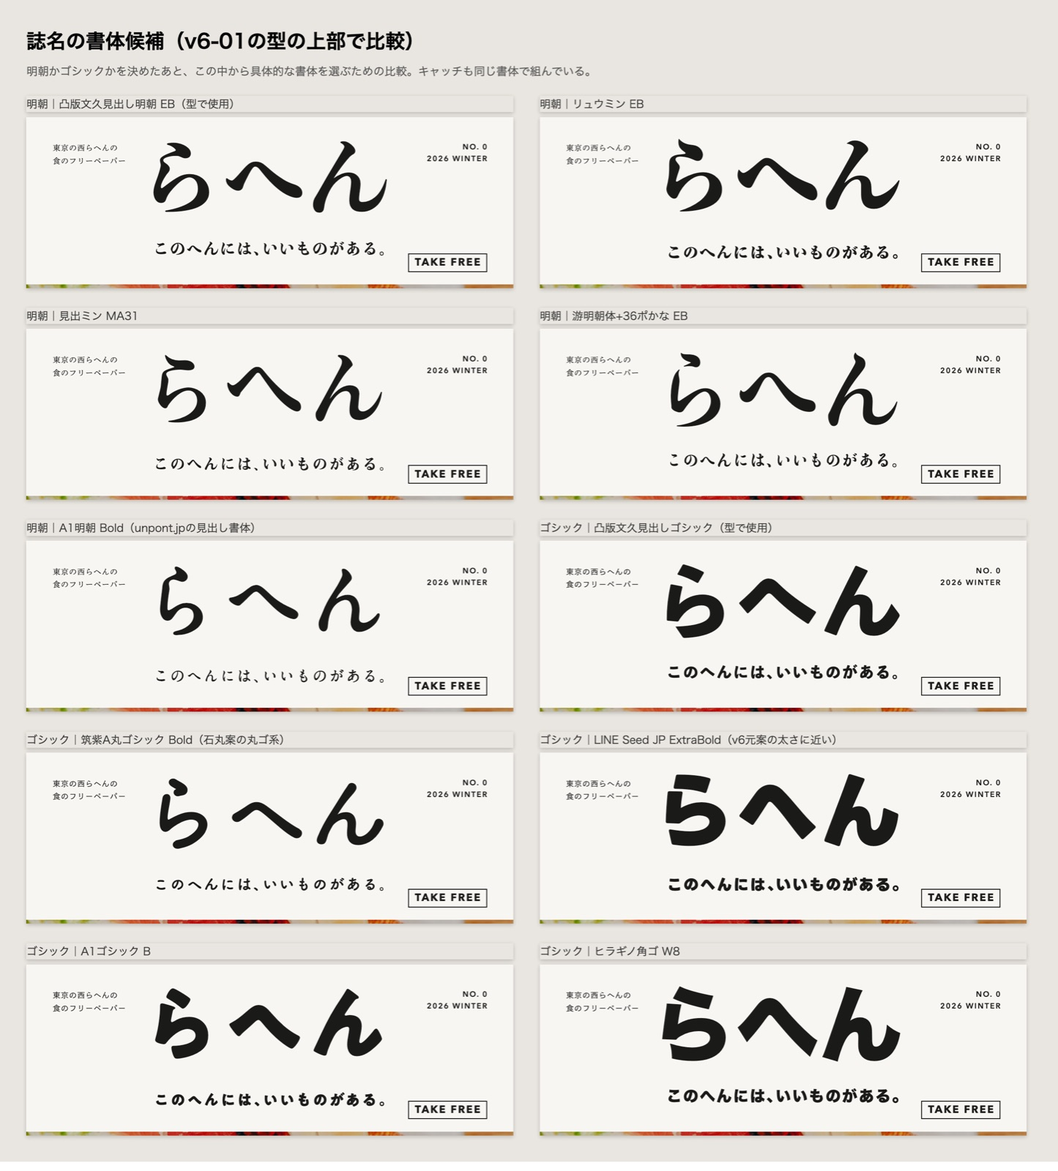
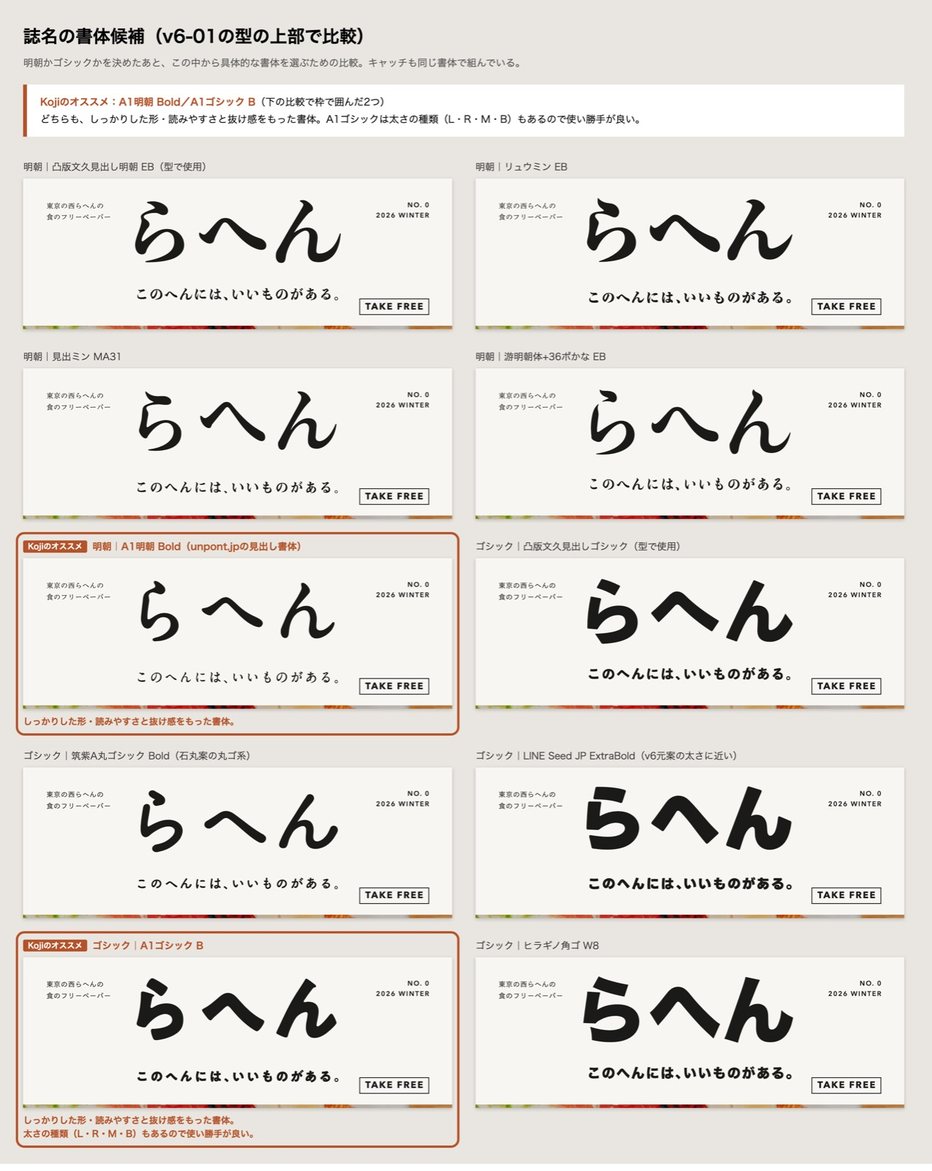
書体候補にKojiのオススメ（A1明朝 Bold／A1ゴシック B）を明示
4版の書体候補の画像で、オススメの2書体を枠と色で強調し、推薦理由を追記。
各版のページにも、書体候補の上にオススメ欄を追加。

Changed region(s): [[0.0, 0.0, 0.9804, 1.0], [0.8885, 0.6562, 0.9497, 0.6875], [0.337, 0.5312, 0.3676, 0.5625]]

diff --git a/cover-type/photo4/index.html b/cover-type/photo4/index.html
@@ -27,6 +27,6 @@ figure.base img{opacity:.92}figcaption{font-size:12px;color:var(--sub);margin-to
 <main><h2 class="sec">5つの型：元案／明朝体／ゴシック体</h2><section class="type"><h3>v1-01 白帯</h3><p class="note">上端20mmの白帯に誌名だけ。写真は帯の下すべて。キャッチは写真の上に縦組み（写真の右上が明るいので黒文字）。</p><div class="tri"><figure class="base"><img src="web/base_t1.jpg"><figcaption>元案（MTGで選んだもの）</figcaption></figure><figure><a href="t1_mincho.pdf"><img src="web/t1_mincho.jpg"></a><figcaption>明朝体（凸版文久見出し明朝 EB）　<a href="t1_mincho.pdf">PDF</a></figcaption></figure><figure><a href="t1_gothic.pdf"><img src="web/t1_gothic.jpg"></a><figcaption>ゴシック体（凸版文久見出しゴシック EB）　<a href="t1_gothic.pdf">PDF</a></figcaption></figure></div></section><section class="type"><h3>v1-02 四季色</h3><p class="note">上81.5mmが季節色の帯（号ごとに色替え）。誌名とキャッチは帯の中央。写真は下128.5mm。</p><div class="tri"><figure class="base"><img src="web/base_t2.jpg"><figcaption>元案（MTGで選んだもの）</figcaption></figure><figure><a href="t2_mincho.pdf"><img src="web/t2_mincho.jpg"></a><figcaption>明朝体（凸版文久見出し明朝 EB）　<a href="t2_mincho.pdf">PDF</a></figcaption></figure><figure><a href="t2_gothic.pdf"><img src="web/t2_gothic.jpg"></a><figcaption>ゴシック体（凸版文久見出しゴシック EB）　<a href="t2_gothic.pdf">PDF</a></figcaption></figure></div></section><section class="type"><h3>v1-07 らへん標本</h3><p class="note">白地。誌名とキャッチは右寄せ。写真は上50.7mmから白フチ5mmで配置。</p><div class="tri"><figure class="base"><img src="web/base_t3.jpg"><figcaption>元案（MTGで選んだもの）</figcaption></figure><figure><a href="t3_mincho.pdf"><img src="web/t3_mincho.jpg"></a><figcaption>明朝体（凸版文久見出し明朝 EB）　<a href="t3_mincho.pdf">PDF</a></figcaption></figure><figure><a href="t3_gothic.pdf"><img src="web/t3_gothic.jpg"></a><figcaption>ゴシック体（凸版文久見出しゴシック EB）　<a href="t3_gothic.pdf">PDF</a></figcaption></figure></div></section><section class="type"><h3>v6-01 朝の一皿</h3><p class="note">上50.8mmの生成り地に大きな誌名とキャッチ。写真は下159.2mm。TAKE FREEは帯の右下。</p><div class="tri"><figure class="base"><img src="web/base_t4.jpg"><figcaption>元案（MTGで選んだもの）</figcaption></figure><figure><a href="t4_mincho.pdf"><img src="web/t4_mincho.jpg"></a><figcaption>明朝体（凸版文久見出し明朝 EB）　<a href="t4_mincho.pdf">PDF</a></figcaption></figure><figure><a href="t4_gothic.pdf"><img src="web/t4_gothic.jpg"></a><figcaption>ゴシック体（凸版文久見出しゴシック EB）　<a href="t4_gothic.pdf">PDF</a></figcaption></figure></div></section><section class="type"><h3>v6-03 畑がある</h3><p class="note">上48mmの生成り地に誌名・キャッチ・英語タグライン。TAKE FREEは帯の左下。</p><div class="tri"><figure class="base"><img src="web/base_t5.jpg"><figcaption>元案（MTGで選んだもの）</figcaption></figure><figure><a href="t5_mincho.pdf"><img src="web/t5_mincho.jpg"></a><figcaption>明朝体（凸版文久見出し明朝 EB）　<a href="t5_mincho.pdf">PDF</a></figcaption></figure><figure><a href="t5_gothic.pdf"><img src="web/t5_gothic.jpg"></a><figcaption>ゴシック体（凸版文久見出しゴシック EB）　<a href="t5_gothic.pdf">PDF</a></figcaption></figure></div></section>
 <h2 class="sec">ラック想定（前のポケットで下が隠れた状態）</h2><div class="wide"><img src="web/rack.jpg"></div>
 <h2 class="sec">遠目想定（2.5m・3.7m）</h2><p class="lead">画面の表示倍率で見え方が変わるため、型どうしの相対比較用。実際の読みやすさはA5実寸の出力を離れて見て確かめる。</p><div class="wide"><img src="web/distance.jpg"></div>
-<h2 class="sec">誌名の書体候補（明朝かゴシックかを決めたあとに選ぶ）</h2><div class="wide"><img src="web/fonts.jpg"></div>
+<h2 class="sec">誌名の書体候補（明朝かゴシックかを決めたあとに選ぶ）</h2><div class="box" style="border-color:#B4532A;border-left:5px solid #B4532A"><h2 style="color:#B4532A">Kojiのオススメ：A1明朝 Bold／A1ゴシック B</h2><ul><li>どちらも、しっかりした形・読みやすさと抜け感をもった書体。</li><li>A1ゴシックは太さの種類（L・R・M・B）もあるので使い勝手が良い。</li><li>下の比較では、オススメの2つを枠で囲んでいる。</li></ul></div><div class="wide"><img src="web/fonts.jpg"></div>
 <h2 class="sec">型の寸法（A5・mm）</h2><div class="tw"><table><tr><th>型</th><th>上の帯</th><th>誌名</th><th>キャッチ</th><th>TAKE FREE</th><th>写真</th></tr><tr><td>v1-01 白帯</td><td>20mm</td><td>中央・12.5mm・字間0.32em</td><td>写真の右上に縦組み2行・5mm（写真の明るさで黒／白）</td><td>帯の左・ラベル</td><td>20〜210mm（全面）</td></tr><tr><td>v1-02 四季色</td><td>81.5mm（季節色）</td><td>中央・24mm</td><td>誌名の下・4.2mm</td><td>帯の左下・ラベル</td><td>81.5〜210mm（全面）</td></tr><tr><td>v1-07 らへん標本</td><td>なし（白地）</td><td>右寄せ・17.5mm</td><td>誌名の下に右寄せ・3.8mm</td><td>左・キャッチと同じ行・ラベル</td><td>50.7〜205mm（左右下5mmの白フチ）</td></tr><tr><td>v6-01 朝の一皿</td><td>50.8mm（生成り）</td><td>中央・25mm</td><td>誌名の下・4.6mm</td><td>帯の右下・ラベル</td><td>50.8〜210mm（全面）</td></tr><tr><td>v6-03 畑がある</td><td>48mm（生成り）</td><td>中央・25mm</td><td>誌名の下・4.4mm＋英語2.3mm</td><td>帯の左下・ラベル</td><td>48〜210mm（全面）</td></tr></table></div>
 <p class="lead" style="margin-top:14px">元データ：assets/edit/cover-type/（型のHTML・生成スクリプト）。書き出し：output/cover-type_写真4_ガレット横から/（PNG・PDF）。型のHTML：assets/edit/cover-type/variants/p4/。</p></main></body></html>

diff --git a/cover-type/photo2/index.html b/cover-type/photo2/index.html
@@ -27,6 +27,6 @@ figure.base img{opacity:.92}figcaption{font-size:12px;color:var(--sub);margin-to
 <main><h2 class="sec">5つの型：元案／明朝体／ゴシック体</h2><section class="type"><h3>v1-01 白帯</h3><p class="note">上端20mmの白帯に誌名だけ。写真は帯の下すべて。キャッチは写真の上に縦組み（写真の右上が明るいので黒文字）。</p><div class="tri"><figure class="base"><img src="web/base_t1.jpg"><figcaption>元案（MTGで選んだもの）</figcaption></figure><figure><a href="t1_mincho.pdf"><img src="web/t1_mincho.jpg"></a><figcaption>明朝体（凸版文久見出し明朝 EB）　<a href="t1_mincho.pdf">PDF</a></figcaption></figure><figure><a href="t1_gothic.pdf"><img src="web/t1_gothic.jpg"></a><figcaption>ゴシック体（凸版文久見出しゴシック EB）　<a href="t1_gothic.pdf">PDF</a></figcaption></figure></div></section><section class="type"><h3>v1-02 四季色</h3><p class="note">上81.5mmが季節色の帯（号ごとに色替え）。誌名とキャッチは帯の中央。写真は下128.5mm。</p><div class="tri"><figure class="base"><img src="web/base_t2.jpg"><figcaption>元案（MTGで選んだもの）</figcaption></figure><figure><a href="t2_mincho.pdf"><img src="web/t2_mincho.jpg"></a><figcaption>明朝体（凸版文久見出し明朝 EB）　<a href="t2_mincho.pdf">PDF</a></figcaption></figure><figure><a href="t2_gothic.pdf"><img src="web/t2_gothic.jpg"></a><figcaption>ゴシック体（凸版文久見出しゴシック EB）　<a href="t2_gothic.pdf">PDF</a></figcaption></figure></div></section><section class="type"><h3>v1-07 らへん標本</h3><p class="note">白地。誌名とキャッチは右寄せ。写真は上50.7mmから白フチ5mmで配置。</p><div class="tri"><figure class="base"><img src="web/base_t3.jpg"><figcaption>元案（MTGで選んだもの）</figcaption></figure><figure><a href="t3_mincho.pdf"><img src="web/t3_mincho.jpg"></a><figcaption>明朝体（凸版文久見出し明朝 EB）　<a href="t3_mincho.pdf">PDF</a></figcaption></figure><figure><a href="t3_gothic.pdf"><img src="web/t3_gothic.jpg"></a><figcaption>ゴシック体（凸版文久見出しゴシック EB）　<a href="t3_gothic.pdf">PDF</a></figcaption></figure></div></section><section class="type"><h3>v6-01 朝の一皿</h3><p class="note">上50.8mmの生成り地に大きな誌名とキャッチ。写真は下159.2mm。TAKE FREEは帯の右下。</p><div class="tri"><figure class="base"><img src="web/base_t4.jpg"><figcaption>元案（MTGで選んだもの）</figcaption></figure><figure><a href="t4_mincho.pdf"><img src="web/t4_mincho.jpg"></a><figcaption>明朝体（凸版文久見出し明朝 EB）　<a href="t4_mincho.pdf">PDF</a></figcaption></figure><figure><a href="t4_gothic.pdf"><img src="web/t4_gothic.jpg"></a><figcaption>ゴシック体（凸版文久見出しゴシック EB）　<a href="t4_gothic.pdf">PDF</a></figcaption></figure></div></section><section class="type"><h3>v6-03 畑がある</h3><p class="note">上48mmの生成り地に誌名・キャッチ・英語タグライン。TAKE FREEは帯の左下。</p><div class="tri"><figure class="base"><img src="web/base_t5.jpg"><figcaption>元案（MTGで選んだもの）</figcaption></figure><figure><a href="t5_mincho.pdf"><img src="web/t5_mincho.jpg"></a><figcaption>明朝体（凸版文久見出し明朝 EB）　<a href="t5_mincho.pdf">PDF</a></figcaption></figure><figure><a href="t5_gothic.pdf"><img src="web/t5_gothic.jpg"></a><figcaption>ゴシック体（凸版文久見出しゴシック EB）　<a href="t5_gothic.pdf">PDF</a></figcaption></figure></div></section>
 <h2 class="sec">ラック想定（前のポケットで下が隠れた状態）</h2><div class="wide"><img src="web/rack.jpg"></div>
 <h2 class="sec">遠目想定（2.5m・3.7m）</h2><p class="lead">画面の表示倍率で見え方が変わるため、型どうしの相対比較用。実際の読みやすさはA5実寸の出力を離れて見て確かめる。</p><div class="wide"><img src="web/distance.jpg"></div>
-<h2 class="sec">誌名の書体候補（明朝かゴシックかを決めたあとに選ぶ）</h2><div class="wide"><img src="web/fonts.jpg"></div>
+<h2 class="sec">誌名の書体候補（明朝かゴシックかを決めたあとに選ぶ）</h2><div class="box" style="border-color:#B4532A;border-left:5px solid #B4532A"><h2 style="color:#B4532A">Kojiのオススメ：A1明朝 Bold／A1ゴシック B</h2><ul><li>どちらも、しっかりした形・読みやすさと抜け感をもった書体。</li><li>A1ゴシックは太さの種類（L・R・M・B）もあるので使い勝手が良い。</li><li>下の比較では、オススメの2つを枠で囲んでいる。</li></ul></div><div class="wide"><img src="web/fonts.jpg"></div>
 <h2 class="sec">型の寸法（A5・mm）</h2><div class="tw"><table><tr><th>型</th><th>上の帯</th><th>誌名</th><th>キャッチ</th><th>TAKE FREE</th><th>写真</th></tr><tr><td>v1-01 白帯</td><td>20mm</td><td>中央・12.5mm・字間0.32em</td><td>写真の右上に縦組み2行・5mm（写真の明るさで黒／白）</td><td>帯の左・ラベル</td><td>20〜210mm（全面）</td></tr><tr><td>v1-02 四季色</td><td>81.5mm（季節色）</td><td>中央・24mm</td><td>誌名の下・4.2mm</td><td>帯の左下・ラベル</td><td>81.5〜210mm（全面）</td></tr><tr><td>v1-07 らへん標本</td><td>なし（白地）</td><td>右寄せ・17.5mm</td><td>誌名の下に右寄せ・3.8mm</td><td>左・キャッチと同じ行・ラベル</td><td>50.7〜205mm（左右下5mmの白フチ）</td></tr><tr><td>v6-01 朝の一皿</td><td>50.8mm（生成り）</td><td>中央・25mm</td><td>誌名の下・4.6mm</td><td>帯の右下・ラベル</td><td>50.8〜210mm（全面）</td></tr><tr><td>v6-03 畑がある</td><td>48mm（生成り）</td><td>中央・25mm</td><td>誌名の下・4.4mm＋英語2.3mm</td><td>帯の左下・ラベル</td><td>48〜210mm（全面）</td></tr></table></div>
 <p class="lead" style="margin-top:14px">元データ：assets/edit/cover-type/（型のHTML・生成スクリプト）。書き出し：output/cover-type_写真2_マフィン作業/（PNG・PDF）。型のHTML：assets/edit/cover-type/variants/p2/。</p></main></body></html>

diff --git a/cover-type/photo3/index.html b/cover-type/photo3/index.html
@@ -27,6 +27,6 @@ figure.base img{opacity:.92}figcaption{font-size:12px;color:var(--sub);margin-to
 <main><h2 class="sec">5つの型：元案／明朝体／ゴシック体</h2><section class="type"><h3>v1-01 白帯</h3><p class="note">上端20mmの白帯に誌名だけ。写真は帯の下すべて。キャッチは写真の上に縦組み（写真の右上が明るいので黒文字）。</p><div class="tri"><figure class="base"><img src="web/base_t1.jpg"><figcaption>元案（MTGで選んだもの）</figcaption></figure><figure><a href="t1_mincho.pdf"><img src="web/t1_mincho.jpg"></a><figcaption>明朝体（凸版文久見出し明朝 EB）　<a href="t1_mincho.pdf">PDF</a></figcaption></figure><figure><a href="t1_gothic.pdf"><img src="web/t1_gothic.jpg"></a><figcaption>ゴシック体（凸版文久見出しゴシック EB）　<a href="t1_gothic.pdf">PDF</a></figcaption></figure></div></section><section class="type"><h3>v1-02 四季色</h3><p class="note">上81.5mmが季節色の帯（号ごとに色替え）。誌名とキャッチは帯の中央。写真は下128.5mm。</p><div class="tri"><figure class="base"><img src="web/base_t2.jpg"><figcaption>元案（MTGで選んだもの）</figcaption></figure><figure><a href="t2_mincho.pdf"><img src="web/t2_mincho.jpg"></a><figcaption>明朝体（凸版文久見出し明朝 EB）　<a href="t2_mincho.pdf">PDF</a></figcaption></figure><figure><a href="t2_gothic.pdf"><img src="web/t2_gothic.jpg"></a><figcaption>ゴシック体（凸版文久見出しゴシック EB）　<a href="t2_gothic.pdf">PDF</a></figcaption></figure></div></section><section class="type"><h3>v1-07 らへん標本</h3><p class="note">白地。誌名とキャッチは右寄せ。写真は上50.7mmから白フチ5mmで配置。</p><div class="tri"><figure class="base"><img src="web/base_t3.jpg"><figcaption>元案（MTGで選んだもの）</figcaption></figure><figure><a href="t3_mincho.pdf"><img src="web/t3_mincho.jpg"></a><figcaption>明朝体（凸版文久見出し明朝 EB）　<a href="t3_mincho.pdf">PDF</a></figcaption></figure><figure><a href="t3_gothic.pdf"><img src="web/t3_gothic.jpg"></a><figcaption>ゴシック体（凸版文久見出しゴシック EB）　<a href="t3_gothic.pdf">PDF</a></figcaption></figure></div></section><section class="type"><h3>v6-01 朝の一皿</h3><p class="note">上50.8mmの生成り地に大きな誌名とキャッチ。写真は下159.2mm。TAKE FREEは帯の右下。</p><div class="tri"><figure class="base"><img src="web/base_t4.jpg"><figcaption>元案（MTGで選んだもの）</figcaption></figure><figure><a href="t4_mincho.pdf"><img src="web/t4_mincho.jpg"></a><figcaption>明朝体（凸版文久見出し明朝 EB）　<a href="t4_mincho.pdf">PDF</a></figcaption></figure><figure><a href="t4_gothic.pdf"><img src="web/t4_gothic.jpg"></a><figcaption>ゴシック体（凸版文久見出しゴシック EB）　<a href="t4_gothic.pdf">PDF</a></figcaption></figure></div></section><section class="type"><h3>v6-03 畑がある</h3><p class="note">上48mmの生成り地に誌名・キャッチ・英語タグライン。TAKE FREEは帯の左下。</p><div class="tri"><figure class="base"><img src="web/base_t5.jpg"><figcaption>元案（MTGで選んだもの）</figcaption></figure><figure><a href="t5_mincho.pdf"><img src="web/t5_mincho.jpg"></a><figcaption>明朝体（凸版文久見出し明朝 EB）　<a href="t5_mincho.pdf">PDF</a></figcaption></figure><figure><a href="t5_gothic.pdf"><img src="web/t5_gothic.jpg"></a><figcaption>ゴシック体（凸版文久見出しゴシック EB）　<a href="t5_gothic.pdf">PDF</a></figcaption></figure></div></section>
 <h2 class="sec">ラック想定（前のポケットで下が隠れた状態）</h2><div class="wide"><img src="web/rack.jpg"></div>
 <h2 class="sec">遠目想定（2.5m・3.7m）</h2><p class="lead">画面の表示倍率で見え方が変わるため、型どうしの相対比較用。実際の読みやすさはA5実寸の出力を離れて見て確かめる。</p><div class="wide"><img src="web/distance.jpg"></div>
-<h2 class="sec">誌名の書体候補（明朝かゴシックかを決めたあとに選ぶ）</h2><div class="wide"><img src="web/fonts.jpg"></div>
+<h2 class="sec">誌名の書体候補（明朝かゴシックかを決めたあとに選ぶ）</h2><div class="box" style="border-color:#B4532A;border-left:5px solid #B4532A"><h2 style="color:#B4532A">Kojiのオススメ：A1明朝 Bold／A1ゴシック B</h2><ul><li>どちらも、しっかりした形・読みやすさと抜け感をもった書体。</li><li>A1ゴシックは太さの種類（L・R・M・B）もあるので使い勝手が良い。</li><li>下の比較では、オススメの2つを枠で囲んでいる。</li></ul></div><div class="wide"><img src="web/fonts.jpg"></div>
 <h2 class="sec">型の寸法（A5・mm）</h2><div class="tw"><table><tr><th>型</th><th>上の帯</th><th>誌名</th><th>キャッチ</th><th>TAKE FREE</th><th>写真</th></tr><tr><td>v1-01 白帯</td><td>20mm</td><td>中央・12.5mm・字間0.32em</td><td>写真の右上に縦組み2行・5mm（写真の明るさで黒／白）</td><td>帯の左・ラベル</td><td>20〜210mm（全面）</td></tr><tr><td>v1-02 四季色</td><td>81.5mm（季節色）</td><td>中央・24mm</td><td>誌名の下・4.2mm</td><td>帯の左下・ラベル</td><td>81.5〜210mm（全面）</td></tr><tr><td>v1-07 らへん標本</td><td>なし（白地）</td><td>右寄せ・17.5mm</td><td>誌名の下に右寄せ・3.8mm</td><td>左・キャッチと同じ行・ラベル</td><td>50.7〜205mm（左右下5mmの白フチ）</td></tr><tr><td>v6-01 朝の一皿</td><td>50.8mm（生成り）</td><td>中央・25mm</td><td>誌名の下・4.6mm</td><td>帯の右下・ラベル</td><td>50.8〜210mm（全面）</td></tr><tr><td>v6-03 畑がある</td><td>48mm（生成り）</td><td>中央・25mm</td><td>誌名の下・4.4mm＋英語2.3mm</td><td>帯の左下・ラベル</td><td>48〜210mm（全面）</td></tr></table></div>
 <p class="lead" style="margin-top:14px">元データ：assets/edit/cover-type/（型のHTML・生成スクリプト）。書き出し：output/cover-type_写真3_クレープ/（PNG・PDF）。型のHTML：assets/edit/cover-type/variants/p3/。</p></main></body></html>

diff --git a/cover-type/photo1/index.html b/cover-type/photo1/index.html
@@ -33,6 +33,6 @@ figure.base img{opacity:.92}figcaption{font-size:12px;color:var(--sub);margin-to
 <main><h2 class="sec">5つの型：元案／明朝体／ゴシック体</h2><section class="type"><h3>v1-01 白帯</h3><p class="note">上端20mmの白帯に誌名だけ。写真は帯の下すべて。キャッチは写真の上に縦組み（今回の写真は右上が明るいので黒文字。暗い写真なら白抜き）。</p><div class="tri"><figure class="base"><img src="web/base_t1.jpg"><figcaption>元案（MTGで選んだもの）</figcaption></figure><figure><a href="t1_mincho.pdf"><img src="web/t1_mincho.jpg"></a><figcaption>明朝体（凸版文久見出し明朝 EB）　<a href="t1_mincho.pdf">PDF</a></figcaption></figure><figure><a href="t1_gothic.pdf"><img src="web/t1_gothic.jpg"></a><figcaption>ゴシック体（凸版文久見出しゴシック EB）　<a href="t1_gothic.pdf">PDF</a></figcaption></figure></div></section><section class="type"><h3>v1-02 四季色</h3><p class="note">上81.5mmが季節色の帯（号ごとに色替え）。誌名とキャッチは帯の中央。写真は下128.5mm。</p><div class="tri"><figure class="base"><img src="web/base_t2.jpg"><figcaption>元案（MTGで選んだもの）</figcaption></figure><figure><a href="t2_mincho.pdf"><img src="web/t2_mincho.jpg"></a><figcaption>明朝体（凸版文久見出し明朝 EB）　<a href="t2_mincho.pdf">PDF</a></figcaption></figure><figure><a href="t2_gothic.pdf"><img src="web/t2_gothic.jpg"></a><figcaption>ゴシック体（凸版文久見出しゴシック EB）　<a href="t2_gothic.pdf">PDF</a></figcaption></figure></div></section><section class="type"><h3>v1-07 らへん標本</h3><p class="note">白地。誌名とキャッチは右寄せ。写真は上50.7mmから白フチ5mmで配置。</p><div class="tri"><figure class="base"><img src="web/base_t3.jpg"><figcaption>元案（MTGで選んだもの）</figcaption></figure><figure><a href="t3_mincho.pdf"><img src="web/t3_mincho.jpg"></a><figcaption>明朝体（凸版文久見出し明朝 EB）　<a href="t3_mincho.pdf">PDF</a></figcaption></figure><figure><a href="t3_gothic.pdf"><img src="web/t3_gothic.jpg"></a><figcaption>ゴシック体（凸版文久見出しゴシック EB）　<a href="t3_gothic.pdf">PDF</a></figcaption></figure></div></section><section class="type"><h3>v6-01 朝の一皿</h3><p class="note">上50.8mmの生成り地に大きな誌名とキャッチ。写真は下159.2mm。TAKE FREEは帯の右下。</p><div class="tri"><figure class="base"><img src="web/base_t4.jpg"><figcaption>元案（MTGで選んだもの）</figcaption></figure><figure><a href="t4_mincho.pdf"><img src="web/t4_mincho.jpg"></a><figcaption>明朝体（凸版文久見出し明朝 EB）　<a href="t4_mincho.pdf">PDF</a></figcaption></figure><figure><a href="t4_gothic.pdf"><img src="web/t4_gothic.jpg"></a><figcaption>ゴシック体（凸版文久見出しゴシック EB）　<a href="t4_gothic.pdf">PDF</a></figcaption></figure></div></section><section class="type"><h3>v6-03 畑がある</h3><p class="note">上48mmの生成り地に誌名・キャッチ・英語タグライン。TAKE FREEは帯の左下。</p><div class="tri"><figure class="base"><img src="web/base_t5.jpg"><figcaption>元案（MTGで選んだもの）</figcaption></figure><figure><a href="t5_mincho.pdf"><img src="web/t5_mincho.jpg"></a><figcaption>明朝体（凸版文久見出し明朝 EB）　<a href="t5_mincho.pdf">PDF</a></figcaption></figure><figure><a href="t5_gothic.pdf"><img src="web/t5_gothic.jpg"></a><figcaption>ゴシック体（凸版文久見出しゴシック EB）　<a href="t5_gothic.pdf">PDF</a></figcaption></figure></div></section>
 <h2 class="sec">ラック想定（前のポケットで下が隠れた状態）</h2><div class="wide"><img src="web/rack.jpg"></div>
 <h2 class="sec">遠目想定（2.5m・3.7m）</h2><p class="lead">画面の表示倍率で見え方が変わるため、型どうしの相対比較用。実際の読みやすさはA5実寸の出力を離れて見て確かめる。</p><div class="wide"><img src="web/distance.jpg"></div>
-<h2 class="sec">誌名の書体候補（明朝かゴシックかを決めたあとに選ぶ）</h2><div class="wide"><img src="web/fonts.jpg"></div>
+<h2 class="sec">誌名の書体候補（明朝かゴシックかを決めたあとに選ぶ）</h2><div class="box" style="border-color:#B4532A;border-left:5px solid #B4532A"><h2 style="color:#B4532A">Kojiのオススメ：A1明朝 Bold／A1ゴシック B</h2><ul><li>どちらも、しっかりした形・読みやすさと抜け感をもった書体。</li><li>A1ゴシックは太さの種類（L・R・M・B）もあるので使い勝手が良い。</li><li>下の比較では、オススメの2つを枠で囲んでいる。</li></ul></div><div class="wide"><img src="web/fonts.jpg"></div>
 <h2 class="sec">型の寸法（A5・mm）</h2><div class="tw"><table><tr><th>型</th><th>上の帯</th><th>誌名</th><th>キャッチ</th><th>TAKE FREE</th><th>写真</th></tr><tr><td>v1-01 白帯</td><td>20mm</td><td>中央・12.5mm・字間0.32em</td><td>写真の右上に縦組み2行・5mm（写真の明るさで黒／白）</td><td>帯の左・ラベル</td><td>20〜210mm（全面）</td></tr><tr><td>v1-02 四季色</td><td>81.5mm（季節色）</td><td>中央・24mm</td><td>誌名の下・4.2mm</td><td>帯の左下・ラベル</td><td>81.5〜210mm（全面）</td></tr><tr><td>v1-07 らへん標本</td><td>なし（白地）</td><td>右寄せ・17.5mm</td><td>誌名の下に右寄せ・3.8mm</td><td>左・キャッチと同じ行・ラベル</td><td>50.7〜205mm（左右下5mmの白フチ）</td></tr><tr><td>v6-01 朝の一皿</td><td>50.8mm（生成り）</td><td>中央・25mm</td><td>誌名の下・4.6mm</td><td>帯の右下・ラベル</td><td>50.8〜210mm（全面）</td></tr><tr><td>v6-03 畑がある</td><td>48mm（生成り）</td><td>中央・25mm</td><td>誌名の下・4.4mm＋英語2.3mm</td><td>帯の左下・ラベル</td><td>48〜210mm（全面）</td></tr></table></div>
 <p class="lead" style="margin-top:14px">元データ：assets/edit/cover-type/（型のHTML・生成スクリプト）。書き出し：output/cover-type/（PNG・PDF）。</p></main></body></html>
